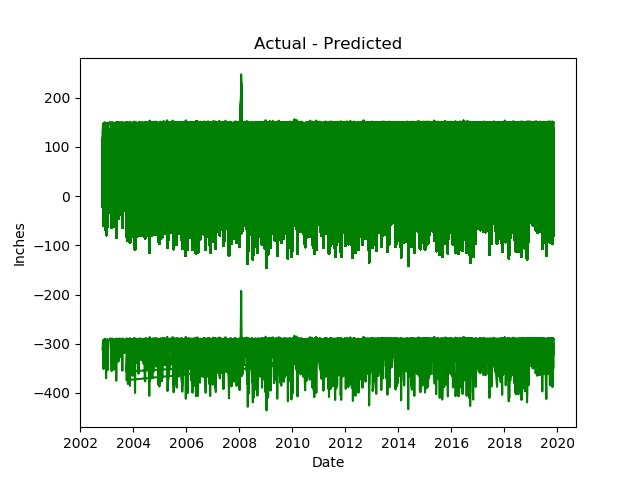
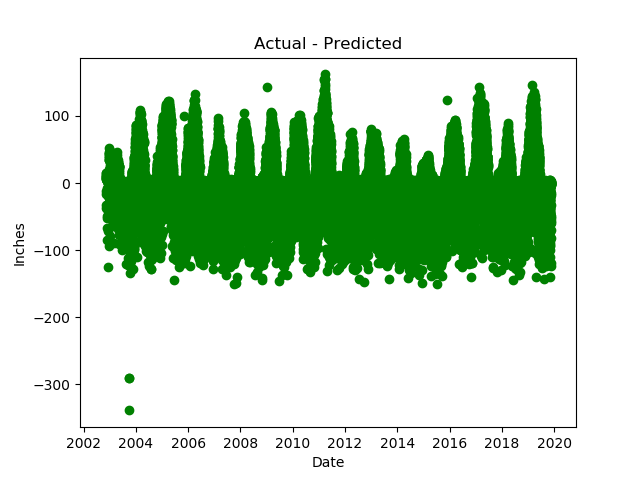
ran timestep weekly and daily on ols

diff --git a/main.py b/main.py
@@ -16,12 +16,20 @@ def param_builder():
 
 
 
+    # # ANN only
+    # l_optimizer = ["sgd","rmsprop"]
+    # l_activation = ["softmax","relu","sigmoid","tanh","linear"]
+    # l_loss = ["mean_squared_error"]
+    # l_hiddenlayer = [1, 2, 3]
+    # l_numneuron = [3, 6, 9, 12]
+
+    # just for now
     # ANN only
-    l_optimizer = ["sgd","rmsprop"]
+    l_optimizer = ["rmsprop"]
     l_activation = ["softmax","relu","sigmoid","tanh","linear"]
     l_loss = ["mean_squared_error"]
-    l_hiddenlayer = [1, 2, 3]
-    l_numneuron = [3, 6, 9, 12]
+    l_hiddenlayer = [1, 2]
+    l_numneuron = [6, 9, 12]
 
     # All
     l_timestep = []
@@ -113,7 +121,7 @@ def main():
     # if always just snwd, don't need
     l_ycols = ["SNWD.I-1 (in) "]
 
-    res_path = os.path.join(os.getcwd(), "results", "results.json")
+    res_path = os.path.join(os.getcwd(), "results", "results1.json")
 
     part_res_path = os.path.join(os.getcwd(), "results", "part-results.json")
     for params in l_params:
@@ -140,40 +148,41 @@ def main():
 
         print(dataset.impute_inputs("2019-12-01", params["timestep"]))
 
-        for ann_params in l_ann_params:
-            row = {}
-            moreinfo = f"{ann_params['optimizer']}-{ann_params['hiddenlayer']}-{ann_params['numneuron']}-{ann_params['loss']}-{ann_params['activation']}-"
-            (mse, pred) = dataset.run_ANN(ann_params, "ANN" + moreinfo + params["fileparam"])
-            row["method"] = "ANN"
-            row["mse"] = mse
-            row["pred"] = pred
-            row["filename"] = "ANN" + params["fileparam"]
-            row["params"] = params
-            results.append(row.copy())
+        # for ann_params in l_ann_params:
+        #     row = {}
+        #     moreinfo = f"{ann_params['optimizer']}-{ann_params['hiddenlayer']}-{ann_params['numneuron']}-{ann_params['loss']}-{ann_params['activation']}-"
+        #     (mse, pred) = dataset.run_ANN(ann_params, "ANN" + moreinfo + params["fileparam"])
+        #     row["method"] = "ANN"
+        #     row["mse"] = mse
+        #     row["pred"] = pred
+        #     row["filename"] = "ANN" + params["fileparam"]
+        #     row["params"] = params
+        #     results.append(row.copy())
 
-        # row = {}
-        # (mse, pred) = dataset.run_OLS("OLS" + params["fileparam"])
-        # row["method"] = "OLS"
-        # row["mse"] = mse
-        # row["pred"] = pred
-        # row["filename"] = "OLS" + params["fileparam"]
-        # row["params"] = params
-        # results.append(row.copy())
-        #
+        row = {}
+        (mse, pred) = dataset.run_OLS("OLS" + params["fileparam"])
+        row["method"] = "OLS"
+        row["mse"] = mse
+        row["pred"] = pred
+        row["filename"] = "OLS" + params["fileparam"]
+        row["params"] = params
+        results.append(row.copy())
+        print(results)
+
         # print(results)
         # if params["timestep"] == "weekly":
-            # row = {}
-            # (mse, predlist) = dataset.run_TSNN("TSNN" + params["fileparam"])
-            # row["method"] = "TSNN"
-            # row["mse"] = mse
-            # row["pred"] = predlist
-            # row["filename"] = "TSNN" + params["fileparam"]
-            # row["params"] = params
-            # results.append(row.copy())
-            # print(results)
+        #     row = {}
+        #     (mse, predlist) = dataset.run_TSNN("TSNN" + params["fileparam"])
+        #     row["method"] = "TSNN"
+        #     row["mse"] = mse
+        #     row["pred"] = predlist
+        #     row["filename"] = "TSNN" + params["fileparam"]
+        #     row["params"] = params
+        #     results.append(row.copy())
+        #     print(results)
 
-        with open(part_res_path, 'w') as f:
-            json.dump(results, f)
+        # with open(part_res_path, 'w') as f:
+        #     json.dump(results, f)
 
 
     with open(res_path, 'w') as fout:

diff --git a/parambuild.py b/parambuild.py
@@ -1,0 +1,101 @@
+import sys
+import os
+import dataset
+from dataset import *
+import datasetbuilder
+from datasetbuilder import *
+import json
+
+l_params = []
+
+# just for now
+# ANN only
+l_optimizer = ["rmsprop"]
+l_activation = ["softmax","relu","sigmoid","tanh","linear"]
+l_loss = ["mean_squared_error"]
+l_hiddenlayer = [1, 2]
+l_numneuron = [6, 9, 12]
+
+# All
+l_timestep = []
+for timestep in Timestep:
+    l_timestep.append(timestep.name)
+l_rectradius = [0.25, 0.5, 0.75, 1]
+
+
+for timestep in l_timestep:
+    params = {}
+    params["timestep"] = timestep
+    params["rectradius"] = 0.25
+    params["remove_outliers"] = 1
+    params["scale_data"] = 1
+    params["use_pca"] = 1
+    params["fileparam"] =  f"{timestep}-0.25-1-1-1.png"
+    l_params.append(params)
+
+for rectradius in l_rectradius:
+    params = {}
+    params["timestep"] = "weekly"
+    params["rectradius"] = rectradius
+    params["remove_outliers"] = 1
+    params["scale_data"] = 1
+    params["use_pca"] = 1
+    params["fileparam"] =  f"weekly-{rectradius}-1-1-1.png"
+    l_params.append(params)
+
+for i in range(0,2):
+    params = {}
+    params["timestep"] = "weekly"
+    params["rectradius"] = 0.25
+    params["remove_outliers"] = i
+    params["scale_data"] = 1
+    params["use_pca"] = 1
+    params["fileparam"] =  f"weekly-0.25-{i}-1-1.png"
+    l_params.append(params)
+
+for i in range(0,2):
+    params = {}
+    params["timestep"] = "weekly"
+    params["rectradius"] = 0.25
+    params["remove_outliers"] = 1
+    params["scale_data"] = i
+    params["use_pca"] = 1
+    params["fileparam"] =  f"weekly-0.25-1-{i}-1.png"
+    l_params.append(params)
+
+for i in range(0,2):
+    params = {}
+    params["timestep"] = "weekly"
+    params["rectradius"] = 0.25
+    params["remove_outliers"] = 1
+    params["scale_data"] = 1
+    params["use_pca"] = i
+    params["fileparam"] =  f"weekly-0.25-1-1-{i}.png"
+    l_params.append(params)
+
+
+
+
+l_ann_params = []
+for optimizer in l_optimizer:
+    for hiddenlayer in l_hiddenlayer:
+        for numneuron in l_numneuron:
+            for loss in l_loss:
+                for activation in l_activation:
+                    ann_params = {}
+                    ann_params["optimizer"] = optimizer
+                    ann_params["hiddenlayer"] = hiddenlayer
+                    ann_params["numneuron"] = numneuron
+                    ann_params["loss"] = loss
+                    ann_params["activation"] = activation
+                    l_ann_params.append(ann_params)
+
+
+
+
+
+with open('params.json', 'w') as fout:
+    json.dump(l_params, fout)
+
+with open('ann_params.json','w') as fout:
+    json.dump(l_ann_params, fout)

diff --git a/OLS.py b/OLS.py
@@ -40,20 +40,11 @@ def run_OLS_predictor(data, x_train, y_train, x_test, y_test, pred_input, filena
 	MSE = mean_squared_error(y_test, y_pred)
 
 	print(MSE)
-	print(MSE_whole)
-
-    # Here is the "simple" plot that takes ~30 seconds to plot
-    #    The blue lines represents actual snow depth, while red lines represents
-    #        predictions
-    #    If you lack patients, please read the attacted screenshot
-    # plt.plot(data['Date'], data["SNWD.I-1 (in) "] ,color='blue')
-    # plt.plot(data['Date'], y_pred_whole, color='red')
 
 	y_actual = np.array(data["SNWD.I-1 (in) "])
-	print(data)
-	print(data["Date"])
-	print(data["SNWD.I-1 (in) "])
-	plt.scatter(data['Date'],  y_actual-y_pred_whole, color='green')
+	y_pred_whole = y_pred_whole.flatten()
+	date = data['Date']
+	plt.scatter(date, y_actual-y_pred_whole, color='green')
 	plt.legend
 	plt.title('Actual - Predicted')
 	plt.ylabel('Inches')
